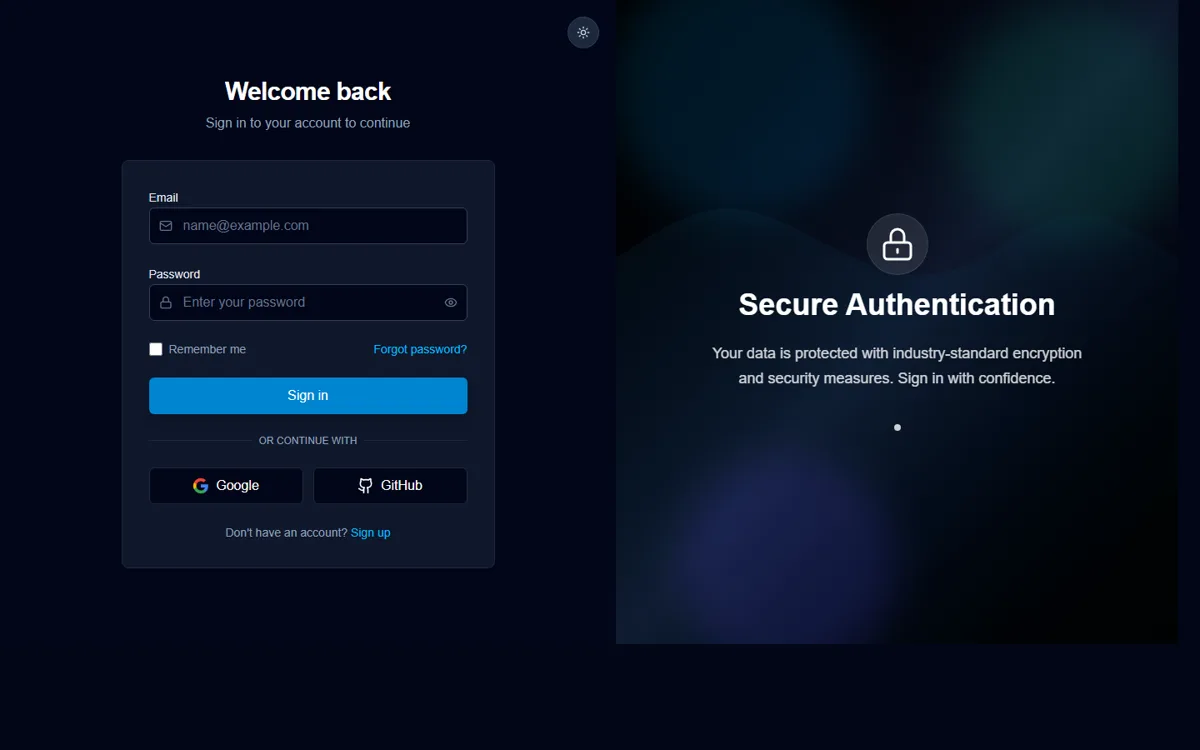
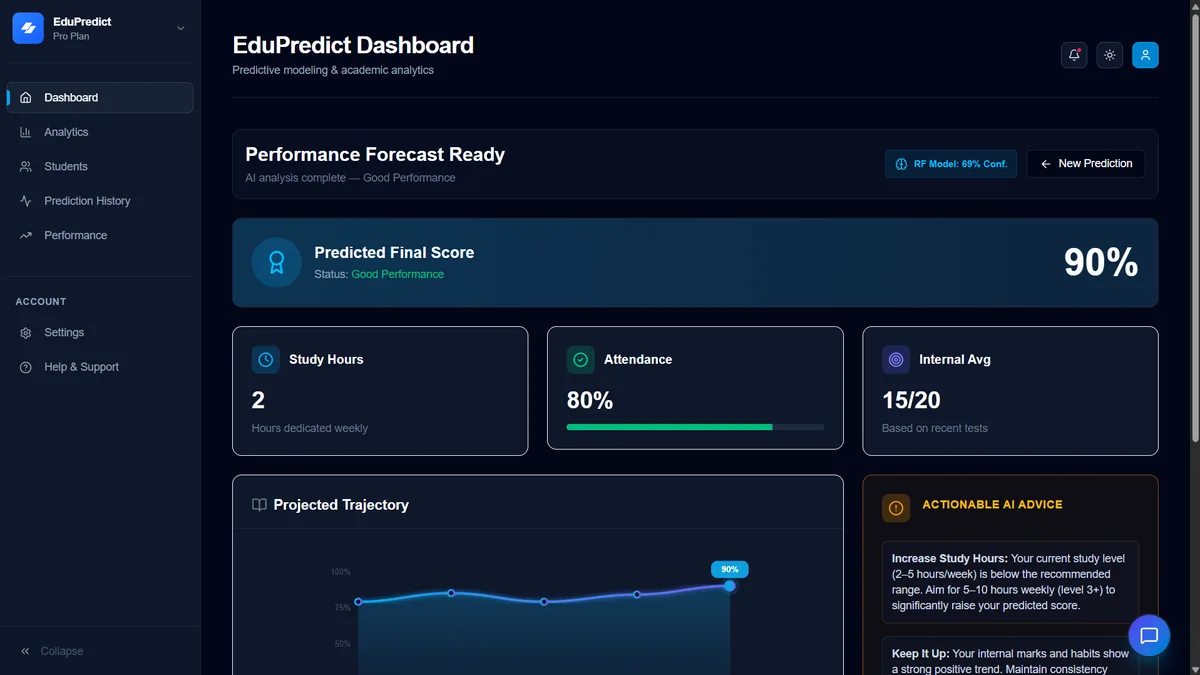
feat: add portfolio projects, playground canvas, contact page, and related assets

diff --git a/src/data/playground.js b/src/data/playground.js
@@ -12,6 +12,6 @@ export const playItems = [
   { id: "portfolio-v1", kind: "photo", src: "/images/projects/portfolio-v1.webp", caption: "portfolio v1: the dark era", x: 380, y: 400, w: 300, aspect: "16/10", rotate: -3 },
   { id: "hirehub", kind: "photo", src: "/images/projects/hirehub.webp", caption: "HireHub, live on Vercel", x: 760, y: 280, w: 300, aspect: "16/10", rotate: -4 },
   { id: "smiley", kind: "sticker", x: 690, y: 330, rotate: -10 },
-  { id: "edupredict", kind: "photo", src: "/images/projects/edupredict.webp", caption: "EduPredict says log in first", x: 790, y: 500, w: 250, aspect: "16/10", rotate: 6 },
+  { id: "edupredict", kind: "photo", src: "/images/projects/edupredict.webp", caption: "EduPredict calls it: 90%", x: 790, y: 500, w: 250, aspect: "16/10", rotate: 6 },
   { id: "hint", kind: "note", text: "psst: everything here is draggable. click a photo to see it big.", color: "yellow", x: 470, y: 620, w: 230, rotate: -2 },
 ];

diff --git a/src/data/projects.js b/src/data/projects.js
@@ -41,7 +41,7 @@ export const projects = [
   {
     slug: "hirehub",
     title: "HireHub",
-    date: "Oct 2026",
+    date: "Sep 2026",
     pitch: "A job portal whose AI reads every resume and scores it out of 100.",
     folder: "yellow",
     stack: ["React", "Node.js", "Express", "MongoDB", "Gemini API"],
@@ -80,7 +80,7 @@ export const projects = [
   {
     slug: "edupredict",
     title: "EduPredict",
-    date: "Aug 2026",
+    date: "Mar 2026",
     pitch: "Spots students at risk early, and explains why.",
     folder: "blue",
     stack: ["React", "Chart.js", "Flask", "scikit-learn", "XGBoost"],

diff --git a/src/pages/Contact.jsx b/src/pages/Contact.jsx
@@ -86,11 +86,10 @@ export default function Contact() {
         </div>
 
         <Polaroid
-          src="/images/projects/hirehub.webp"
-          alt="HireHub home page"
-          caption="latest build: HireHub"
+          src="/images/dev-quote.webp"
+          alt="Green terminal text on black: I can fix the world but they won't give me the source code"
+          caption="words to debug by"
           rotate={5}
-          imgClassName="object-left-top"
           className="order-3 mx-auto hidden w-48 sm:block lg:order-none lg:mt-10 lg:w-52"
         />
       </div>
